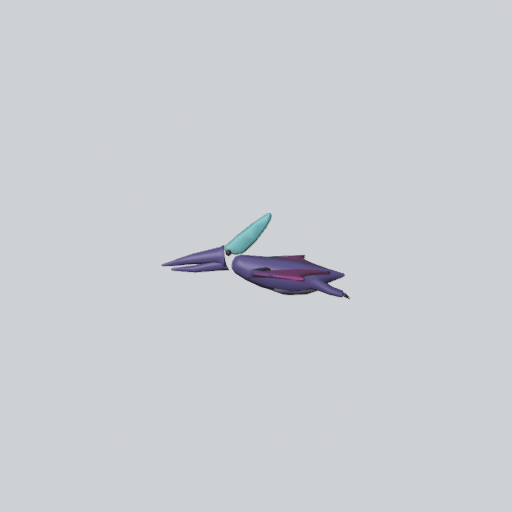
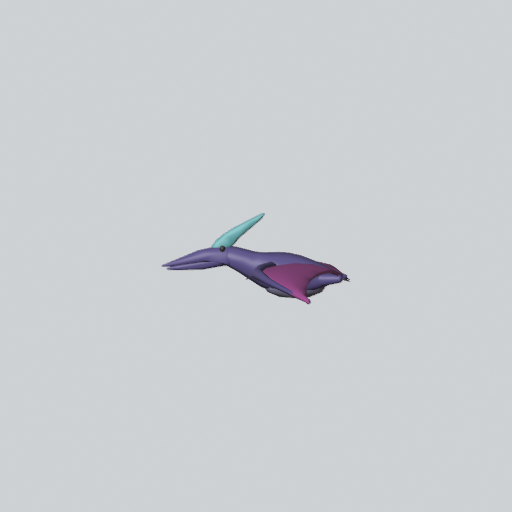
art: rebuild LLAMA (Pteranodon) as one solid silhouette
Jovan's review: head/beak detached at the neck, floating crest, sliver body,
edge-on paper wings. Now the neck skeleton runs into the skull (no gap), the
crest is rooted in the back of the skull over the eyes, the torso and neck are
chunkier, the wings have a thicker arm/finger bone on the leading edge, droop
toward the tips and an upward-cambered membrane whose trailing root meets the
ankles. Same box, colours, roles and mid budget (1462 tris).

Changed region(s): [[0.3125, 0.4062, 0.6875, 0.5938]]

diff --git a/tools/art/models/dino/LLAMA.py b/tools/art/models/dino/LLAMA.py
@@ -7,14 +7,18 @@ x +-3.7, y -0.35..1.01, z -2.1..0.9 about the Root's centre. Points are Roblox s
 Reference (2026-10-26: Britannica, Wikipedia, KU Geology "pterosaur", Triebold P. longiceps
 cast): a pterosaur, not a dinosaur. Wingspan ~5.6 m (male) against a turkey-sized body; long
 toothless pointed beak; a bony crest sweeping BACK from the skull, up to twice the skull's
-length in males (P. longiceps: narrow, backward); the wing is a skin membrane from the
-hugely elongated 4th finger back to the ankle, three small clawed fingers at the wrist;
-short stubby tail; hind limbs relatively big, trailing in flight.
+length in males (P. longiceps: narrow, backward); short S-curved neck into a compact torso;
+the wing is a skin membrane from the hugely elongated 4th finger back to the ankle, three
+small clawed fingers at the wrist; short stubby tail; hind limbs trailing in flight.
 Proportions used (of the 7.4-stud span; the game's box decides length):
-  span : nose-to-tail 2.5 : 1 | skull+beak 0.36 of the length (beak tapering to a point) |
-  crest ~ skull length, swept back at ~35 deg | body (chest-hip) 0.30 | tail 0.08 |
-  wing: arm to the wrist 0.40 of the half-span (leading edge pushed forward at the wrist),
-  wing-finger 0.60 to a swept-back pointed tip; trailing edge scalloped in to the ankle.
+  span : nose-to-tail 2.5 : 1 | skull+beak 0.38 of the length (beak tapering to a point) |
+  crest ~ skull length, rooted in the back of the skull, swept back at ~40 deg |
+  neck short, S-curved up into the skull | torso (chest-hip) 0.25, chunky so it reads at
+  game distance | tail 0.08 | wing: arm to the wrist 0.40 of the half-span (leading edge
+  pushed forward at the wrist), wing-finger 0.60 to a swept-back pointed tip, drooping
+  toward the tip with an upward-cambered membrane; trailing edge scalloped in to the ankle.
+Every piece overlaps its neighbour (neck into skull, crest root inside the skull, wing roots
+and legs inside the torso) so the silhouette is one solid from side, top and front.
 High tier (#433 colour-by-tier): unnatural - deep indigo body, magenta membranes, a glowing
 cyan crest (piece `glow`: wants Neon at runtime).
 """
@@ -27,6 +31,9 @@ INDIGO = (70, 55, 150)
 MAGENTA = (225, 50, 170)
 CYAN = (90, 245, 255)
 DARK = (35, 25, 55)
+
+ROOT_X = 0.12  # wings start inside the torso
+SPAN = 3.58  # root to tip, so the tip lands at x 3.7
 
 
 def _helpers():
@@ -44,12 +51,12 @@ def _mix(a, b, t):
 def _edge(t):
     """Leading / trailing edge z (Roblox) and height y of the wing at span fraction t."""
     if t < 0.4:
-        le = -0.42 - 0.23 * (t / 0.4)
+        le = -0.36 - 0.26 * math.sin(0.5 * math.pi * t / 0.4)  # arm: forward to the wrist
     else:
-        le = -0.65 + 0.8 * ((t - 0.4) / 0.6) ** 1.4
-    te = 0.62 + (0.17 - 0.62) * t - 0.16 * math.sin(math.pi * t)
-    te = max(te, le + 0.06)
-    y = 0.08 + 0.18 * t - 0.12 * t * t
+        le = -0.62 + 0.82 * ((t - 0.4) / 0.6) ** 1.5  # wing-finger, swept back to the tip
+    te = 0.78 + (0.2 - 0.78) * t - 0.2 * math.sin(math.pi * t)  # ankle -> scalloped -> tip
+    te = max(te, le + 0.05)
+    y = 0.14 + 0.16 * t - 0.5 * t * t  # rises to the wrist, droops toward the tip
     return le, te, y
 
 
@@ -57,69 +64,78 @@ def build(lp):
     H = _helpers()
     r = lp.rbx
 
-    # body: hips -> chest -> short neck; stubby tail; legs trailing back under the membrane
-    pts = [r(0, 0.0, 0.42), r(0, 0.02, -0.05), r(0, 0.08, -0.48), r(0, 0.24, -0.98),  # 0-3
-           r(0, 0.03, 0.72), r(0, 0.04, 0.86)]  # 4-5 tail
-    rad = [0.24, 0.3, 0.26, 0.14, 0.07, 0.02]
-    edges = [(0, 1), (1, 2), (2, 3), (0, 4), (4, 5)]
+    # one torso skeleton: stubby tail -> hips -> chunky chest -> short S-curved neck rising
+    # into the skull (the head piece overlaps the neck's top); legs trailing to the ankles
+    pts = [r(0, 0.03, 0.86), r(0, 0.04, 0.64), r(0, 0.03, 0.38), r(0, 0.06, 0.04),  # 0-3
+           r(0, 0.1, -0.3), r(0, 0.17, -0.58), r(0, 0.27, -0.8), r(0, 0.34, -0.98),  # 4-7
+           r(0, 0.37, -1.12)]  # 8: buried in the skull, so neck and head never part
+    rad = [0.03, 0.1, 0.28, 0.36, 0.35, 0.25, 0.2, 0.18, 0.15]
+    edges = [(k, k + 1) for k in range(8)]
     feet = []
     for s in (-1, 1):
-        i = len(pts)  # thigh, knee, ankle, trailing back and a little down
-        pts += [r(0.16 * s, -0.08, 0.38), r(0.22 * s, -0.2, 0.62), r(0.24 * s, -0.26, 0.84)]
-        rad += [0.1, 0.06, 0.045]
-        edges += [(0, i), (i, i + 1), (i + 1, i + 2)]
-        feet.append((0.24 * s, -0.26, 0.84))
-    body = lp.decimate_to(lp.skin("body", pts, edges, rad, subdiv=1), 290)
+        i = len(pts)  # thigh, knee, ankle: trailing back, the membrane's inner corner
+        pts += [r(0.17 * s, 0.0, 0.45), r(0.25 * s, 0.0, 0.62), r(0.3 * s, 0.02, 0.78)]
+        rad += [0.12, 0.08, 0.06]
+        edges += [(2, i), (i, i + 1), (i + 1, i + 2)]
+        feet.append((0.3 * s, 0.02, 0.8))
+    body = lp.decimate_to(lp.skin("body", pts, edges, rad, subdiv=1), 330)
 
-    # wing bones along the leading edge (arm to the wrist, then the long 4th finger)
+    # wing bones along the leading edge: shoulder (in the torso) -> elbow -> wrist knob ->
+    # the long 4th finger to the tip; then the membrane, cambered up, back to the ankle
     bones, membranes, wrists = [], [], []
     for s in (-1, 1):
         chain = []
-        for t in (0.0, 0.2, 0.4, 0.7, 1.0):
+        for t in (0.0, 0.2, 0.4, 0.62, 0.82, 1.0):
             le, _, y = _edge(t)
-            chain.append(r(s * (0.3 + 3.4 * t), y + 0.01, le + 0.03))
-        bones.append(lp.skin(f"bone{s}", chain, [(k, k + 1) for k in range(4)],
-                             [0.09, 0.08, 0.07, 0.04, 0.012], subdiv=1))
+            chain.append(r(s * (ROOT_X + SPAN * t), y + 0.02, le + 0.04))
+        bones.append(lp.skin(f"bone{s}", chain, [(k, k + 1) for k in range(5)],
+                             [0.13, 0.1, 0.095, 0.06, 0.04, 0.012], subdiv=1))
         le, _, y = _edge(0.4)
-        wrists.append((s * 1.66, y, le))
+        wrists.append((s * (ROOT_X + SPAN * 0.4), y + 0.02, le + 0.02))
         rows = []
-        for i in range(15):
-            t = i / 14
+        for i in range(18):
+            t = i / 17
             le, te, y = _edge(t)
-            rows.append([r(s * (0.3 + 3.4 * t), y + 0.035 * math.sin(math.pi * j / 4) * (1 - t),
-                           le + (te - le) * j / 4) for j in range(5)])
-        membranes.append(H.sheet(lp, f"wing{s}", rows, 0.05))
-    body = lp.join("body", [body] + [lp.decimate_to(b, 90) for b in bones])
-    wing = lp.decimate_to(lp.join("accent", membranes), 480)
+            row = []
+            for j in range(6):
+                c = j / 5
+                camber = 0.09 * math.sin(math.pi * c) * (1 - 0.6 * t)
+                dip = -0.1 * c * c * max(0.0, 1 - t / 0.15)  # trailing root down to the ankle
+                row.append(r(s * (ROOT_X + SPAN * t), y + camber + dip, le + 0.03 + (te - le - 0.03) * c))
+            rows.append(row)
+        membranes.append(H.sheet(lp, f"wing{s}", rows, 0.06))
+    body = lp.join("body", [body] + [lp.decimate_to(b, 70) for b in bones])
+    wing = lp.decimate_to(lp.join("accent", membranes), 470)
 
-    # skull + long toothless beak (upper) over a slimmer lower bill
+    # skull rooted over the neck's top, long toothless beak (upper) over a slimmer lower bill
     head = lp.skin(
         "head",
-        [r(0, 0.32, -0.92), r(0, 0.33, -1.2), r(0, 0.28, -1.6), r(0, 0.22, -1.88), r(0, 0.18, -2.1),
-         r(0, 0.2, -1.1), r(0, 0.13, -1.55), r(0, 0.12, -1.95)],
-        [(0, 1), (1, 2), (2, 3), (3, 4), (0, 5), (5, 6), (6, 7)],
-        [0.17, 0.13, 0.085, 0.05, 0.015, 0.1, 0.06, 0.02],
+        [r(0, 0.36, -0.86), r(0, 0.41, -1.12), r(0, 0.35, -1.4), r(0, 0.28, -1.7), r(0, 0.22, -1.95),
+         r(0, 0.19, -2.1),
+         r(0, 0.29, -1.12), r(0, 0.21, -1.5), r(0, 0.17, -1.85), r(0, 0.15, -2.02)],
+        [(0, 1), (1, 2), (2, 3), (3, 4), (4, 5), (1, 6), (6, 7), (7, 8), (8, 9)],
+        [0.2, 0.2, 0.13, 0.08, 0.04, 0.012, 0.13, 0.08, 0.045, 0.015],
     )
-    head = lp.decimate_to(head, 190)
+    head = lp.decimate_to(head, 200)
 
-    # the crest sweeping back and up from the top of the skull - the high-tier glow
+    # the crest: rooted deep in the back of the skull, sweeping back and up - the high-tier glow
     crest = H.blade(lp, "glow", [r(0, *p) for p in (
-        (0.4, -1.18), (0.56, -1.0), (0.78, -0.72), (0.97, -0.42), (1.0, -0.33),
-        (0.9, -0.3), (0.62, -0.5), (0.42, -0.68), (0.3, -0.86))], 0.08, 1)
+        (0.4, -1.36), (0.54, -1.3), (0.62, -1.2), (0.74, -1.04), (0.88, -0.76), (0.99, -0.52), (1.01, -0.44),
+        (0.94, -0.46), (0.76, -0.68), (0.58, -0.9), (0.42, -1.0))], 0.1, 1)
     crest = lp.decimate_to(crest, 110)
 
-    belly = lp.decimate_to(lp.ellipsoid("belly", r(0, -0.13, 0.05), (0.2, 0.42, 0.14), 10, 6), 70)
+    belly = lp.decimate_to(lp.ellipsoid("belly", r(0, -0.1, 0.02), (0.26, 0.5, 0.2), 10, 6), 70)
 
-    eyes = [lp.ellipsoid(f"eye{s}", r(s * 0.135, 0.38, -1.02), (0.05, 0.05, 0.05), 6, 4) for s in (-1, 1)]
+    eyes = [lp.ellipsoid(f"eye{s}", r(s * 0.13, 0.46, -1.13), (0.05, 0.05, 0.05), 6, 4) for s in (-1, 1)]
     eye = lp.join("eye", eyes)
 
     claws = []
-    for k, (wx, wy, wz) in enumerate(wrists):  # three little hand claws at each wrist
-        for d in (-0.06, 0.0, 0.06):
-            claws.append(lp.cone(f"h{k}{d}", r(wx + d, wy - 0.02, wz + 0.02), r(wx + d * 1.3, wy - 0.1, wz - 0.1), 0.022, 4))
+    for k, (wx, wy, wz) in enumerate(wrists):  # three little hand claws forward of each wrist
+        for d in (-0.07, 0.0, 0.07):
+            claws.append(lp.cone(f"h{k}{d}", r(wx + d, wy, wz), r(wx + d * 1.3, wy - 0.08, wz - 0.16), 0.025, 4))
     for k, (fx, fy, fz) in enumerate(feet):  # toes curled back
         for d in (-0.04, 0.0, 0.04):
-            claws.append(lp.cone(f"t{k}{d}", r(fx + d, fy, fz), r(fx + d * 1.4, fy - 0.06, fz + 0.1), 0.02, 4))
+            claws.append(lp.cone(f"t{k}{d}", r(fx + d, fy, fz - 0.02), r(fx + d * 1.4, fy - 0.05, fz + 0.1), 0.022, 4))
     dark = lp.join("dark", claws)
 
     return {
